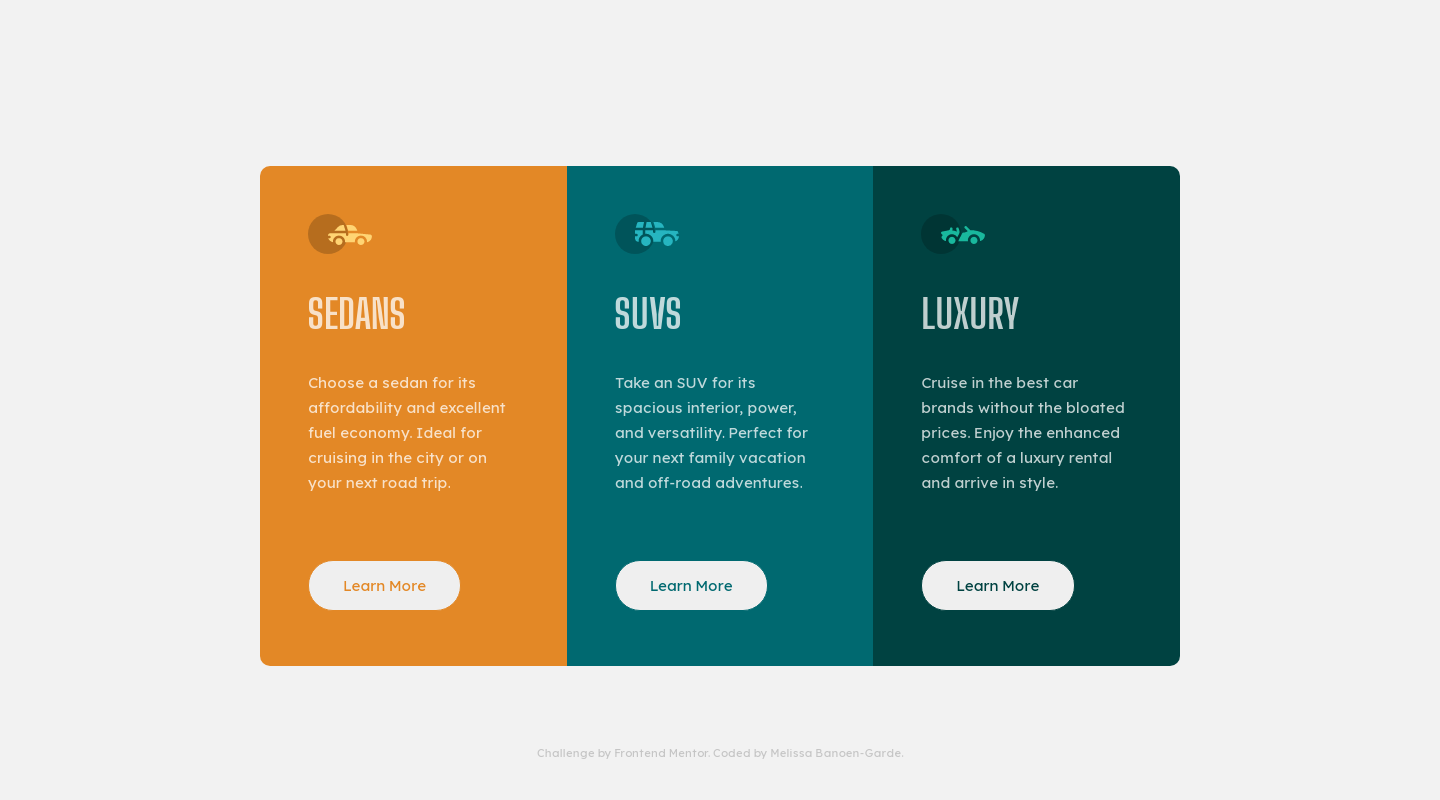
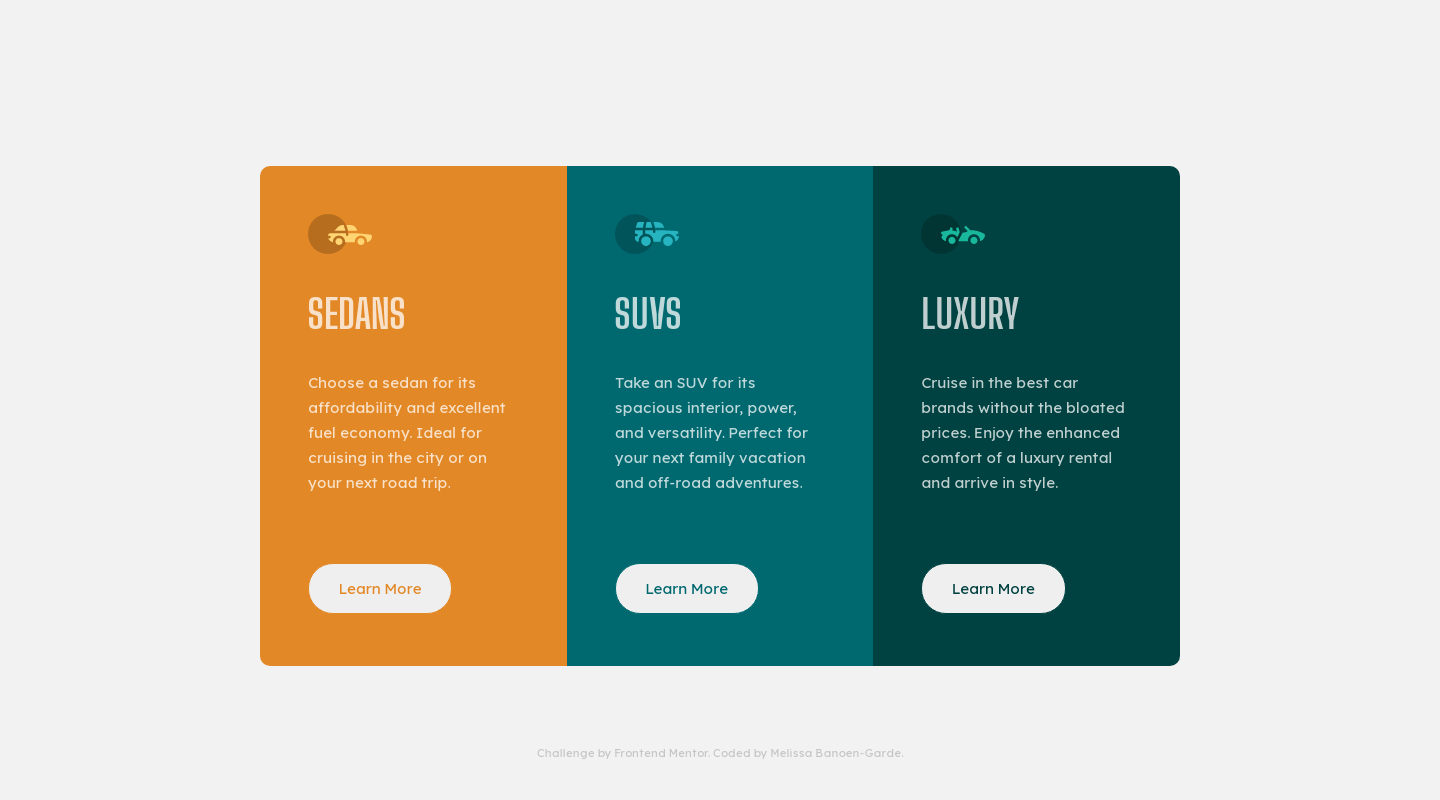
update bottom margin of sub-cards' description

Changed region(s): [[0.2188, 0.6875, 0.3438, 0.7812], [0.6562, 0.6875, 0.75, 0.7812], [0.4375, 0.6875, 0.5312, 0.7812]]

diff --git a/Newbie/3-column-preview-card-component-main/css/style.css b/Newbie/3-column-preview-card-component-main/css/style.css
@@ -91,7 +91,7 @@ body {
   font-weight: 400;
   line-height: calc(var(--text--size) + 10px);
   text-align: start;
-  margin-bottom: 4.5em;
+  margin-bottom: 4.4em;
 }
 
 .card__btn {
